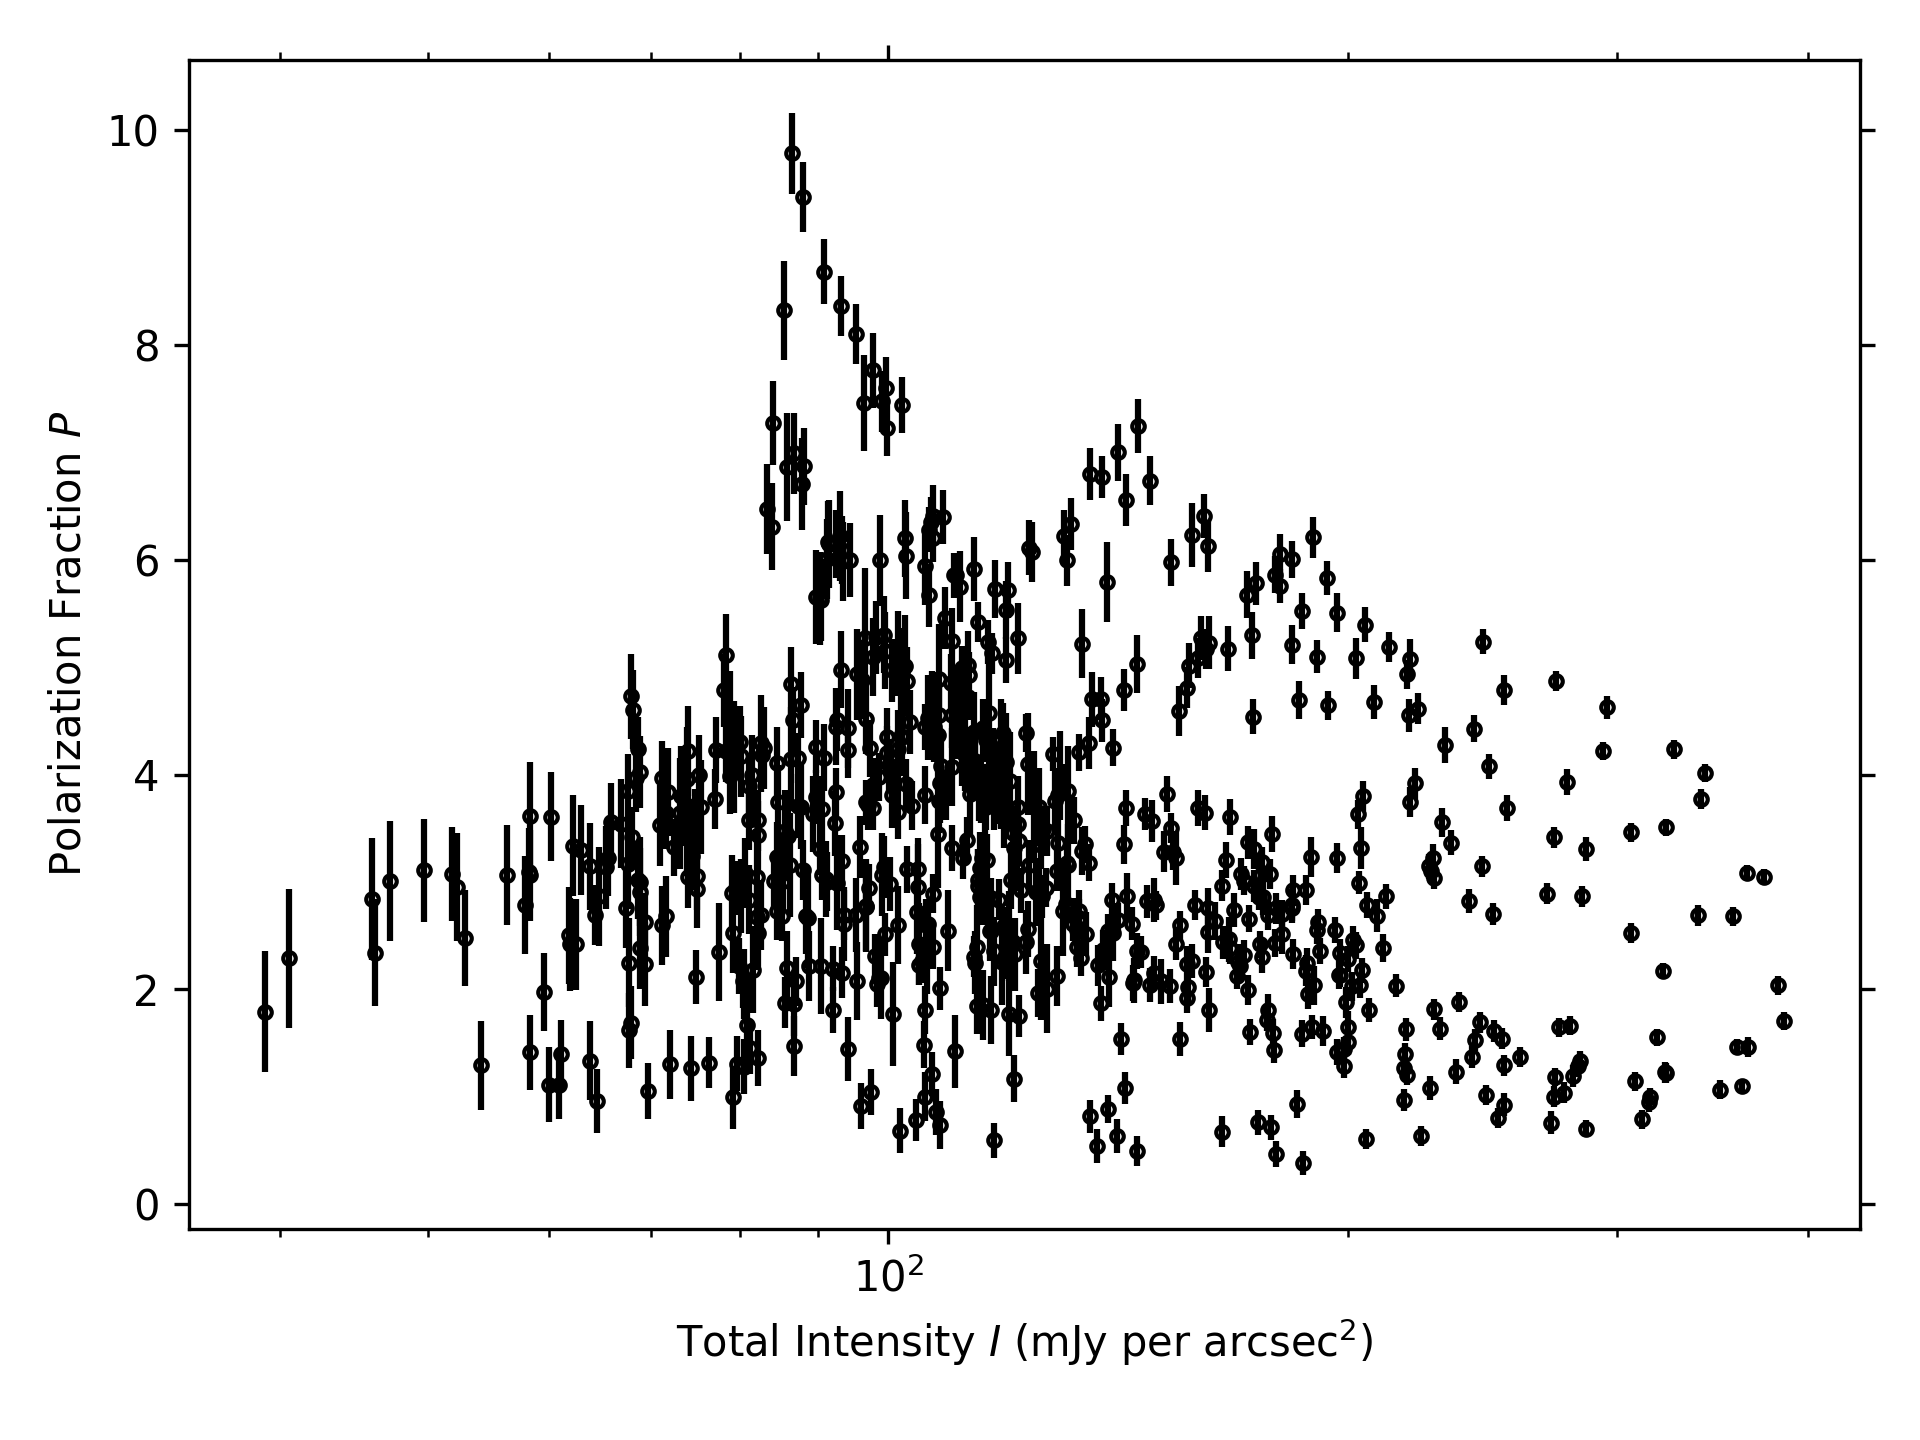
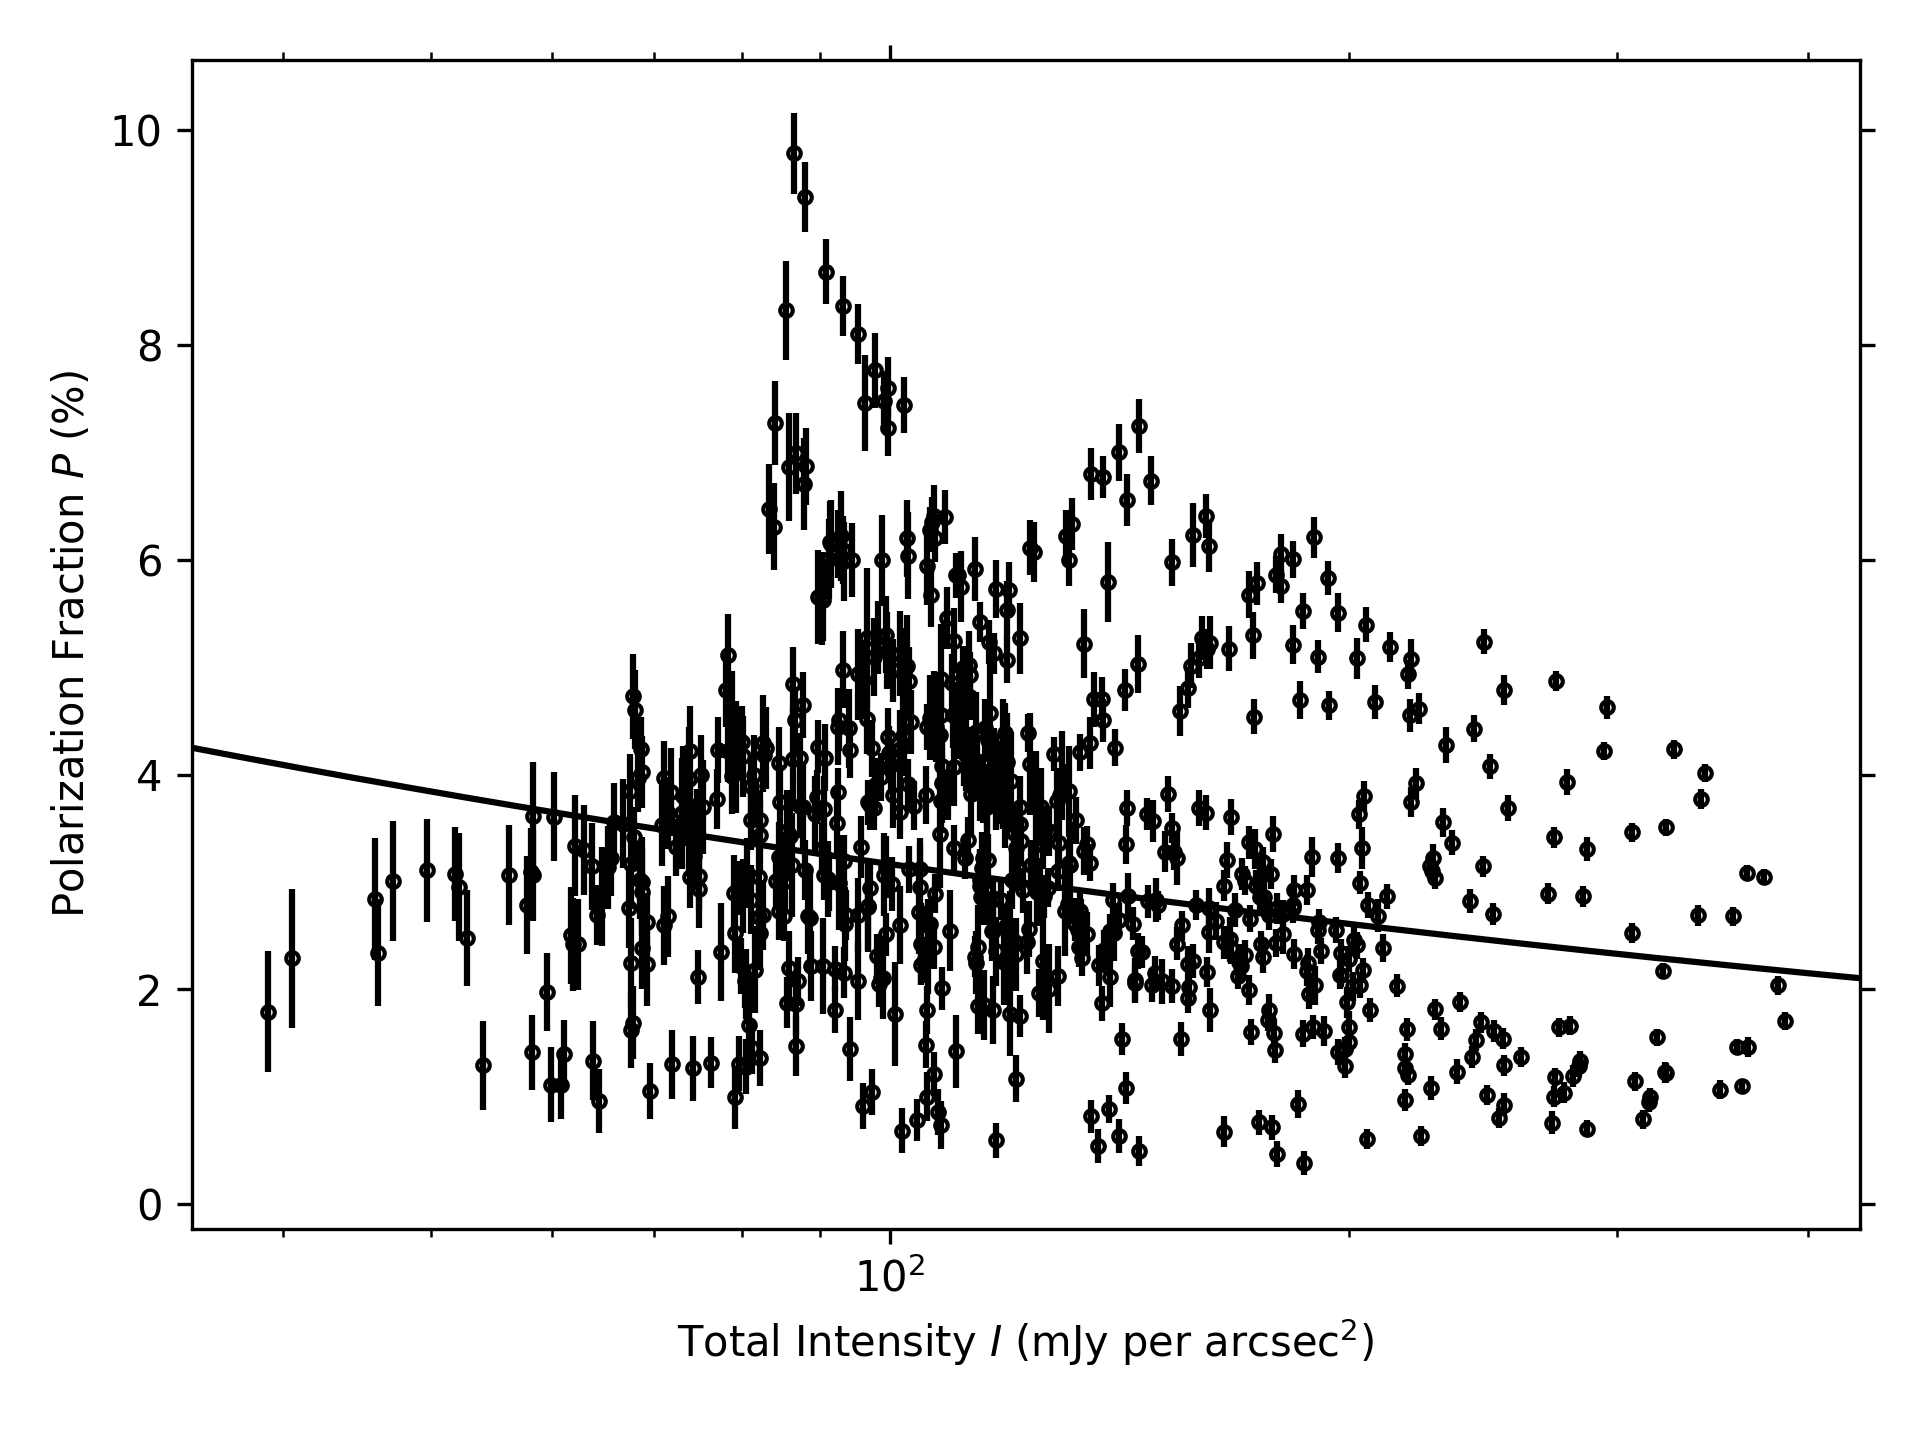
Update to PvI plot
Now includes power law fit

diff --git a/PoLite.py b/PoLite.py
@@ -52,7 +52,7 @@ from lmfit import Parameters, Model
 import math
 import matplotlib.pyplot as plt
 import numpy as np
-from scipy import stats
+from scipy import stats, optimize
 
 # =============================================================================
 # *****************************************************************************
@@ -84,7 +84,8 @@ class cat:
 # =============================================================================
 # Plotting the polarization fraction P as a function of the Stokes I intensity
 # =============================================================================
-    def PvI(self, Imin=None, Imax=None, Pmin=None, Pmax=None, scaleI='linear', scaleP='linear', errorbars='false'):
+    def PvI(self, Imin=None, Imax=None, Pmin=None, Pmax=None, scaleI='linear', scaleP='linear',
+            errorbars='false', showfit='false', weighted='false'):
 
         # Initialization
         # Imin: Minimum value allowed for the x-axes of the plot, otherwise set automatically
@@ -94,6 +95,7 @@ class cat:
         # ScaleI: 'linear' or 'log' scale for the x-axes of the plot, 'linear' by default
         # ScaleI: 'linear' or 'log' scale for the y-axes of the plot, 'linear' by default
         # errorbars: 'true' or 'false', shows errorbars for each point, 'false' by default
+        # showfit: 'true' or 'false', fits weighted (in dP) power law to PvI relation, 'false' by default
 
         
         print()
@@ -102,20 +104,50 @@ class cat:
         print('========================================================')
         print()
         
+
+        if showfit=='true':
+            print()
+            print('Fitting an error-weighted (in P) power law to the PvI relation')
+
+            # Create the array with ln(I), ln(P), and d(ln(P))
+            # The numpy package uses log(x) as the natural logarithm ln
+            length = self.size
+            PvIarray = np.empty([length, 3])
+            PvIarray[:,0]=np.log(self.I)
+            PvIarray[:,1]=np.log(self.P)
+            PvIarray[:,2]=self.dP/self.P
+            # Defining linear function to be fitted by curve_fit
+            def lnPvlnI(x, a, b):
+                return a*x + b
+            # Fitting power law to data
+            if weighted=='true':
+                PvIpow, PvIcov = optimize.curve_fit(lnPvlnI, PvIarray[:,0], PvIarray[:,1], sigma=PvIarray[:,2])
+            else:
+                PvIpow, PvIcov = optimize.curve_fit(lnPvlnI, PvIarray[:,0], PvIarray[:,1])
+            # Uncertainties on the fit
+            PvIerr = np.sqrt(np.diag(PvIcov))
+            # Converting the coefficient back to its non-logarithmic value
+            PvIcoeff = math.exp(PvIpow[1])
+            PvIdcoeff = math.exp(PvIpow[1]) * PvIerr[1]
+            # Printing the results of the fit
+            print()
+            print('Power law index: '+str(PvIpow[0])+' ± '+str(PvIerr[0]))
+            print('Coefficient: '+str(PvIcoeff)+' ± '+str(PvIdcoeff))
+
+        print()
         print('Hopefully plotting a satisfactory figure!')
         print()
-        
                 
         # Plotting the polarization fraction as a function of the total intensity
         PvI_plot = plt.figure() # Creating the figure object
         plt.xlabel("Total Intensity $I$ (mJy per arcsec$^2$)")
-        plt.ylabel("Polarization Fraction $P$")
+        plt.ylabel("Polarization Fraction $P$ (%)")
 
         # Plots with and without errorbars 
         if errorbars=='true':
             plt.errorbar(self.I, self.P, yerr = self.dP, fmt ='o', color='black', markersize=3, mfc='none')
         else:
-            plt.plot(self.I, self.P, 'o', color='black', markersize=3, mfc='none')
+            plt.plot(self.I, self.P, 'o', color='black', markersize=3, mfc='none')         
 
         # Changing the scale of the plot axes
         if scaleI=='log':
@@ -138,6 +170,17 @@ class cat:
         # Setting the minimum and maximum values
         plt.xlim(Imin,Imax)
         plt.ylim(Pmin,Pmax)
+
+                # Adding power law fit
+        if showfit=='true':
+            def PvIfunc(x, A, B):
+                return A*x**B
+            
+            # Creating x values
+            PvIfuncX = np.arange(Imin, Imax, 0.1)
+            # Calculating the y values
+            PvIfuncY = PvIfunc(PvIfuncX,PvIcoeff,PvIpow[0])
+            plt.plot(PvIfuncX, PvIfuncY, 'k')
        
         axes = plt.gca() # Calling the axes object of the figure
         axes.xaxis.set_ticks_position('both') # Adding ticks to each side
